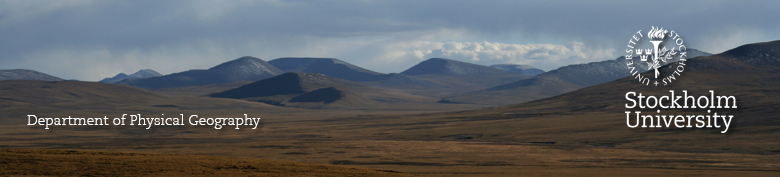
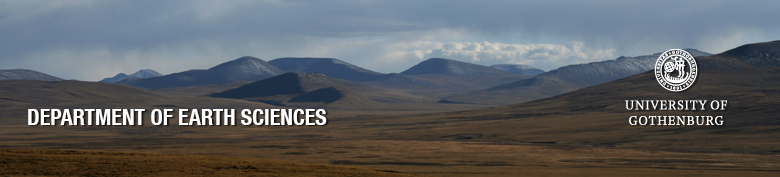
update SU to GU

Changed region(s): [[0.8, 0.1412, 0.9538, 0.7627], [0.0308, 0.5932, 0.4308, 0.7345]]

diff --git a/index.html b/index.html
@@ -14,9 +14,9 @@
 
   <div id="header"><img src="images/topfig_jakob.jpg" width="780" height="177" border="0" usemap="#Map"> 
     <map name="Map">
-          <area shape="circle" coords="657,56,31" href="http://www.su.se" onClick="ga('send', 'event', 'link', 'www.su.se');">
-          <area shape="rect" coords="626,89,737,130" href="http://www.su.se" onClick="ga('send', 'event', 'link', 'www.su.se');">
-		  <area shape="rect" coords="26,114,261,129" href="http://www.natgeo.su.se/" onClick="ga('send', 'event', 'link', 'www.natgeo.su.se');">
+          <area shape="circle" coords="676,70,23" href="http://www.gu.se/english" onClick="ga('send', 'event', 'link', 'www.gu.se');">
+          <area shape="rect" coords="626,99,727,126" href="http://www.gu.se/english" onClick="ga('send', 'event', 'link', 'www.gu.se');">
+		  <area shape="rect" coords="27,108,327,126" href="http://gvc.gu.se/english" onClick="ga('send', 'event', 'link', 'gvc.gu.se');">
     </map>
 		<ul class="menu">
 			<li class="selected"><a href="index.html">Jakob</a></li>
@@ -30,13 +30,13 @@
     <table width="597" border="0">
       <tr>
 	<td valign="top"><br /><h2><br>Jakob Heyman</h2>
-          <p>Post-doctoral researcher<br><p>
-			Department of Physical Geography<br>
-			Stockholm University<br>
-			106 91 Stockholm<br>
+			<p>Senior lecturer<br><p>
+			University of Gothenburg<br>
+			Department of Earth Sciences<br>
+			Box 460<br>
+			405 30 Göteborg<br>
 			Sweden</p>
-	    <p>Room: T-403</p>
-            Email: <a href="mailto:jakob.heyman@natgeo.su.se" onClick="ga('send', 'event', 'email', 'jakob.heyman@natgeo.su.se');">jakob.heyman@natgeo.su.se</a></p>
+            Email: <a href="mailto:jakob.heyman@gu.se" onClick="ga('send', 'event', 'email', 'jakob.heyman@gu.se');">jakob.heyman@gu.se</a></p>
 	    <td valign="center" width="111"><br><img src="images/jakob.jpg" border="1" width="167" height="200" hspace="5"></td>
 	    </tr>
       <tr>

diff --git a/publications.html b/publications.html
@@ -14,9 +14,9 @@
       <div id="header">
         <img src="images/topfig_publications.jpg" width="780" height="177" border="0" usemap="#Map">
     <map name="Map">
-          <area shape="circle" coords="657,56,31" href="http://www.su.se" onClick="ga('send', 'event', 'link', 'www.su.se');">
-          <area shape="rect" coords="626,89,737,130" href="http://www.su.se" onClick="ga('send', 'event', 'link', 'www.su.se');">
-		  <area shape="rect" coords="26,114,261,129" href="http://www.natgeo.su.se/" onClick="ga('send', 'event', 'link', 'www.natgeo.su.se');">
+          <area shape="circle" coords="676,70,23" href="http://www.gu.se/english" onClick="ga('send', 'event', 'link', 'www.gu.se');">
+          <area shape="rect" coords="626,99,727,126" href="http://www.gu.se/english" onClick="ga('send', 'event', 'link', 'www.gu.se');">
+		  <area shape="rect" coords="27,108,327,126" href="http://gvc.gu.se/english" onClick="ga('send', 'event', 'link', 'gvc.gu.se');">
     </map>
 		<ul class="menu">
 			<li><a href="index.html">Jakob</a></li>

diff --git a/research.html b/research.html
@@ -13,9 +13,9 @@
 	
       <div id="header"><img src="images/topfig_research.jpg" width="780" height="177" border="0" usemap="#Map">
     <map name="Map">
-          <area shape="circle" coords="657,56,31" href="http://www.su.se" onClick="ga('send', 'event', 'link', 'www.su.se');">
-          <area shape="rect" coords="626,89,737,130" href="http://www.su.se" onClick="ga('send', 'event', 'link', 'www.su.se');">
-		  <area shape="rect" coords="26,114,261,129" href="http://www.natgeo.su.se/" onClick="ga('send', 'event', 'link', 'www.natgeo.su.se');">
+          <area shape="circle" coords="676,70,23" href="http://www.gu.se/english" onClick="ga('send', 'event', 'link', 'www.gu.se');">
+          <area shape="rect" coords="626,99,727,126" href="http://www.gu.se/english" onClick="ga('send', 'event', 'link', 'www.gu.se');">
+		  <area shape="rect" coords="27,108,327,126" href="http://gvc.gu.se/english" onClick="ga('send', 'event', 'link', 'gvc.gu.se');">
     </map>
 		<ul class="menu">
 			<li><a href="index.html">Jakob</a></li>

diff --git a/gallery-2006.html b/gallery-2006.html
@@ -14,9 +14,9 @@
   <div id="header">
   <img src="images/topfig_gallery.jpg" width="780" height="177" border="0" usemap="#Map"> 
     <map name="Map">
-          <area shape="circle" coords="657,56,31" href="http://www.su.se" onClick="ga('send', 'event', 'link', 'www.su.se');">
-          <area shape="rect" coords="626,89,737,130" href="http://www.su.se" onClick="ga('send', 'event', 'link', 'www.su.se');">
-		  <area shape="rect" coords="26,114,261,129" href="http://www.natgeo.su.se/" onClick="ga('send', 'event', 'link', 'www.natgeo.su.se');">
+          <area shape="circle" coords="676,70,23" href="http://www.gu.se/english" onClick="ga('send', 'event', 'link', 'www.gu.se');">
+          <area shape="rect" coords="626,99,727,126" href="http://www.gu.se/english" onClick="ga('send', 'event', 'link', 'www.gu.se');">
+		  <area shape="rect" coords="27,108,327,126" href="http://gvc.gu.se/english" onClick="ga('send', 'event', 'link', 'gvc.gu.se');">
     </map>
 	<ul class="menu">
 		<li><a href="index.html">Jakob</a></li>

diff --git a/gallery-2007.html b/gallery-2007.html
@@ -12,9 +12,9 @@
   <div id="header">
   <img src="images/topfig_gallery.jpg" width="780" height="177" border="0" usemap="#Map"> 
     <map name="Map">
-          <area shape="circle" coords="657,56,31" href="http://www.su.se" onClick="ga('send', 'event', 'link', 'www.su.se');">
-          <area shape="rect" coords="626,89,737,130" href="http://www.su.se" onClick="ga('send', 'event', 'link', 'www.su.se');">
-		  <area shape="rect" coords="26,114,261,129" href="http://www.natgeo.su.se/" onClick="ga('send', 'event', 'link', 'www.natgeo.su.se');">
+          <area shape="circle" coords="676,70,23" href="http://www.gu.se/english" onClick="ga('send', 'event', 'link', 'www.gu.se');">
+          <area shape="rect" coords="626,99,727,126" href="http://www.gu.se/english" onClick="ga('send', 'event', 'link', 'www.gu.se');">
+		  <area shape="rect" coords="27,108,327,126" href="http://gvc.gu.se/english" onClick="ga('send', 'event', 'link', 'gvc.gu.se');">
     </map>
 	<ul class="menu">
 		<li><a href="index.html">Jakob</a></li>

diff --git a/gallery-2008.html b/gallery-2008.html
@@ -14,9 +14,9 @@
   <div id="header">
 	<img src="images/topfig_gallery.jpg" width="780" height="177" border="0" usemap="#Map"> 
     <map name="Map">
-          <area shape="circle" coords="657,56,31" href="http://www.su.se" onClick="ga('send', 'event', 'link', 'www.su.se');">
-          <area shape="rect" coords="626,89,737,130" href="http://www.su.se" onClick="ga('send', 'event', 'link', 'www.su.se');">
-		  <area shape="rect" coords="26,114,261,129" href="http://www.natgeo.su.se/" onClick="ga('send', 'event', 'link', 'www.natgeo.su.se');">
+          <area shape="circle" coords="676,70,23" href="http://www.gu.se/english" onClick="ga('send', 'event', 'link', 'www.gu.se');">
+          <area shape="rect" coords="626,99,727,126" href="http://www.gu.se/english" onClick="ga('send', 'event', 'link', 'www.gu.se');">
+		  <area shape="rect" coords="27,108,327,126" href="http://gvc.gu.se/english" onClick="ga('send', 'event', 'link', 'gvc.gu.se');">
     </map>
 	<ul class="menu">
 		<li><a href="index.html">Jakob</a></li>

diff --git a/gallery-2009.html b/gallery-2009.html
@@ -14,9 +14,9 @@
   <div id="header">
 	<img src="images/topfig_gallery.jpg" width="780" height="177" border="0" usemap="#Map"> 
     <map name="Map">
-          <area shape="circle" coords="657,56,31" href="http://www.su.se" onClick="ga('send', 'event', 'link', 'www.su.se');">
-          <area shape="rect" coords="626,89,737,130" href="http://www.su.se" onClick="ga('send', 'event', 'link', 'www.su.se');">
-		  <area shape="rect" coords="26,114,261,129" href="http://www.natgeo.su.se/" onClick="ga('send', 'event', 'link', 'www.natgeo.su.se');">
+          <area shape="circle" coords="676,70,23" href="http://www.gu.se/english" onClick="ga('send', 'event', 'link', 'www.gu.se');">
+          <area shape="rect" coords="626,99,727,126" href="http://www.gu.se/english" onClick="ga('send', 'event', 'link', 'www.gu.se');">
+		  <area shape="rect" coords="27,108,327,126" href="http://gvc.gu.se/english" onClick="ga('send', 'event', 'link', 'gvc.gu.se');">
     </map>
 	<ul class="menu">
 		<li><a href="index.html">Jakob</a></li>

diff --git a/gallery.html b/gallery.html
@@ -14,9 +14,9 @@
   <div id="header">
 	<img src="images/topfig_gallery.jpg" width="780" height="177" border="0" usemap="#Map"> 
     <map name="Map">
-          <area shape="circle" coords="657,56,31" href="http://www.su.se" onClick="ga('send', 'event', 'link', 'www.su.se');">
-          <area shape="rect" coords="626,89,737,130" href="http://www.su.se" onClick="ga('send', 'event', 'link', 'www.su.se');">
-		  <area shape="rect" coords="26,114,261,129" href="http://www.natgeo.su.se/" onClick="ga('send', 'event', 'link', 'www.natgeo.su.se');">
+          <area shape="circle" coords="676,70,23" href="http://www.gu.se/english" onClick="ga('send', 'event', 'link', 'www.gu.se');">
+          <area shape="rect" coords="626,99,727,126" href="http://www.gu.se/english" onClick="ga('send', 'event', 'link', 'www.gu.se');">
+		  <area shape="rect" coords="27,108,327,126" href="http://gvc.gu.se/english" onClick="ga('send', 'event', 'link', 'gvc.gu.se');">
     </map>
 	<ul class="menu">
 		<li><a href="index.html">Jakob</a></li>
